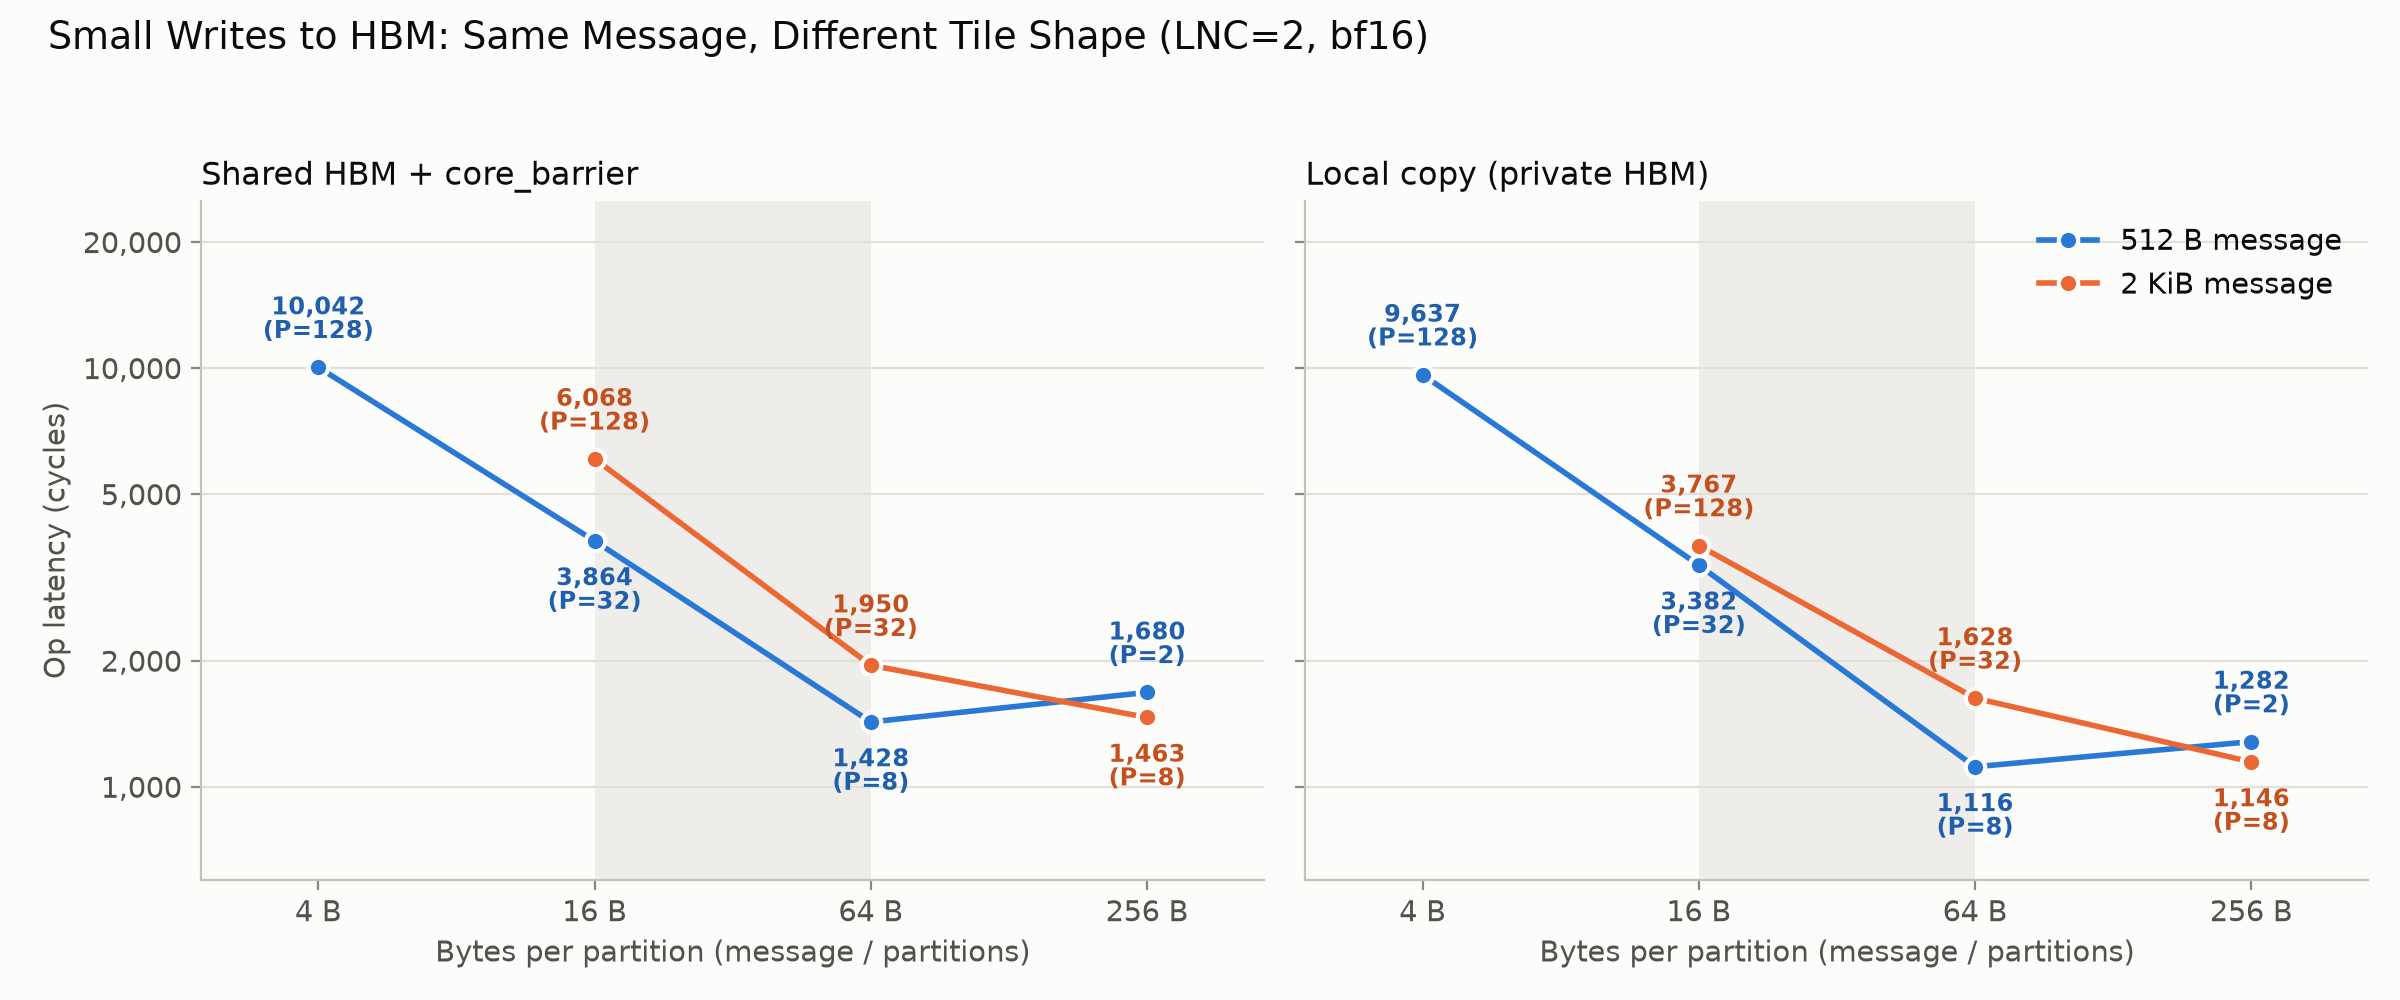
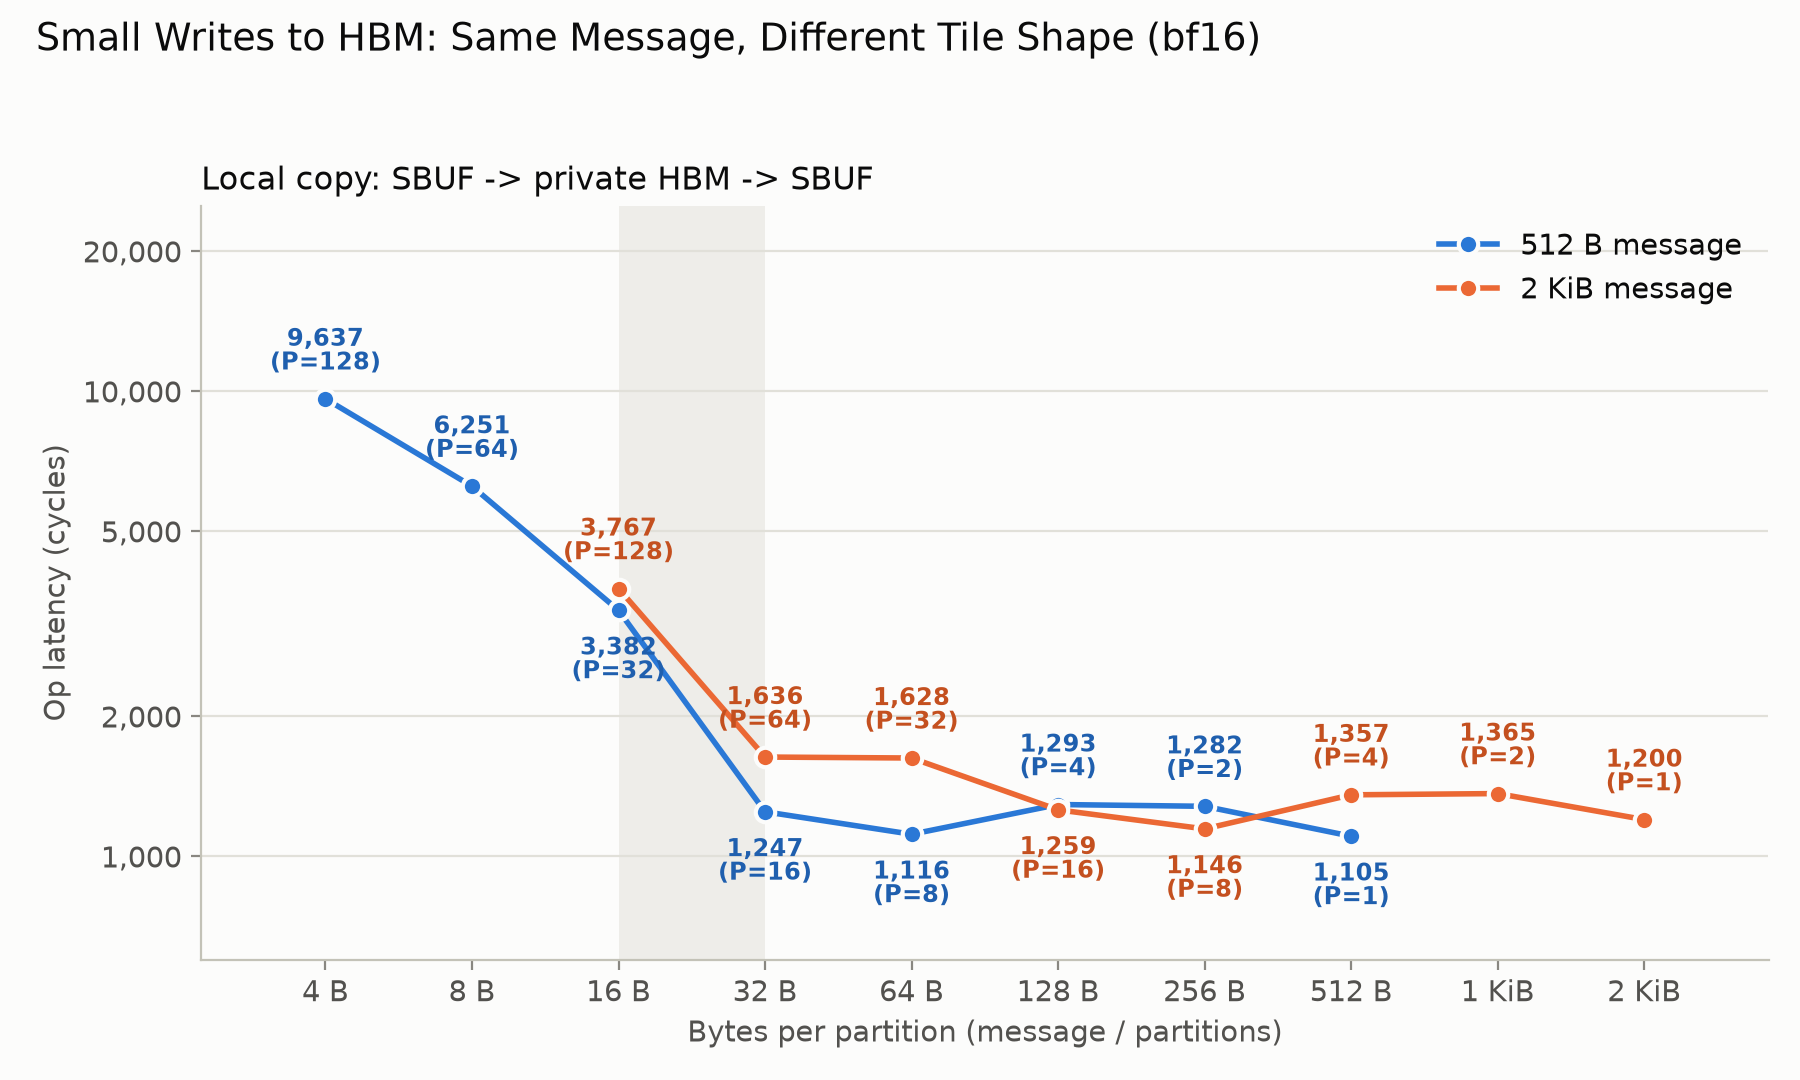
feat(ubenchX): pin down the HBM small-write effect in the intra-LNC benchmark
- fixed message (512 B, 2 KiB), partitions 128..1: local-copy latency follows bytes per partition, slow
  below 32 B (cost grows with partition rows per 32-byte unit), flat from 32 B
- 128 partitions, rows 24..128 B: fast only at multiples of 32 B (32/64/96/128/256 B ~1,660-1,690 cycles),
  1.5-2.2x slower at 24/40/48/56/72/80 B, consistent with a 32-byte write granularity on the HBM path
- plot_shape.py (local copy only, 4 B - 2 KiB per partition) and plot_fine128.py, with results

Claude-Session: https://claude.ai/code/session_01C1GQhTP9zGg6ZW9qDhft4A

diff --git a/ubenchX/trn3_lnc_comm/plot_shape.py b/ubenchX/trn3_lnc_comm/plot_shape.py
@@ -1,12 +1,12 @@
 """Plot op latency vs bytes per partition at a fixed message size (HBM small-write test; needs matplotlib).
 
-  python ubenchX/trn3_lnc_comm/plot_shape.py shape.csv out.png
+  python ubenchX/trn3_lnc_comm/plot_shape.py shape.csv [more.csv ...] out.png
 
 The same message (512 B or 2 KiB per rank) is sent as tiles of different shapes ([P, F] bf16, P = 128,
-32, 8, 2), so only the bytes each partition holds changes (F x 2 B). Left: shared HBM + core_barrier;
-right: the same copies into private HBM (local copy). Op latency in 1.2 GHz NeuronCore cycles, median over
+32, 8, 2; for local copy also 64, 16, 4, 1), so only the bytes each partition holds changes (F x 2 B). Local copy only
+(SBUF -> private HBM -> SBUF, no peer; shared HBM + core_barrier adds ~300 cycles throughout). Op latency in 1.2 GHz NeuronCore cycles, median over
 both physical cores and the profiled executions; the point label is the partition count. The shaded band
-is where the slowdown ends (between 16 and 64 B per partition).
+is where the slowdown ends (between 16 and 32 B per partition).
 """
 import sys
 
@@ -17,21 +17,22 @@ matplotlib.use("Agg")
 import matplotlib.pyplot as plt
 from matplotlib.ticker import FixedLocator, NullLocator
 
-csv, out = sys.argv[1:]
+*csvs, out = sys.argv[1:]
 SURFACE, INK, INK2, MUTED, GRID, AXIS = "#fcfcfb", "#0b0b0b", "#52514e", "#898781", "#e1e0d9", "#c3c2b7"
 SIZES = {512: ("512 B message", "#2a78d6", "#1f5fae"), 2048: ("2 KiB message", "#eb6834", "#c4501f")}
-PANELS = [("shm_barrier", "Shared HBM + core_barrier"), ("local_copy", "Local copy (private HBM)")]
+PANELS = [("local_copy", "Local copy: SBUF -> private HBM -> SBUF")]
 
-df = pd.read_csv(csv)
+df = pd.concat([pd.read_csv(c) for c in csvs], ignore_index=True)
 df["ppb"] = df.F * 2
 g = df.groupby(["kernel", "bytes", "ppb", "P"]).op_cycles.median().reset_index()
 xs = sorted(g.ppb.unique())
 
 plt.rcParams.update({"font.family": "DejaVu Sans", "font.size": 10.5})
-fig, axes = plt.subplots(1, 2, figsize=(12, 5), facecolor=SURFACE, sharey=True)
+fig, ax0 = plt.subplots(figsize=(9, 5.4), facecolor=SURFACE)
+axes = [ax0]
 for ax, (kernel, title) in zip(axes, PANELS):
     ax.set_facecolor(SURFACE)
-    ax.axvspan(16, 64, color=GRID, alpha=0.5, lw=0, zorder=0)
+    ax.axvspan(16, 32, color=GRID, alpha=0.5, lw=0, zorder=0)
     for b, (name, color, tcolor) in SIZES.items():
         s = g[(g.kernel == kernel) & (g.bytes == b)].sort_values("ppb")
         ax.plot(s.ppb, s.op_cycles, color=color, lw=2, marker="o", ms=7, markeredgecolor=SURFACE, markeredgewidth=1.5,
@@ -45,7 +46,7 @@ for ax, (kernel, title) in zip(axes, PANELS):
     ax.set_xscale("log", base=2)
     ax.xaxis.set_major_locator(FixedLocator(xs))
     ax.xaxis.set_minor_locator(NullLocator())
-    ax.set_xticklabels([f"{x} B" for x in xs])
+    ax.set_xticklabels([f"{x} B" if x < 1024 else f"{x // 1024} KiB" for x in xs])
     ax.set_xlim(xs[0] / 1.8, xs[-1] * 1.8)
     ax.set_yscale("log")
     yt = [500, 1000, 2000, 5000, 10000, 20000]
@@ -63,8 +64,8 @@ for ax, (kernel, title) in zip(axes, PANELS):
         ax.spines[s_].set_color(AXIS)
     ax.tick_params(colors=MUTED, labelcolor=INK2)
 axes[0].set_ylabel("Op latency (cycles)", color=INK2)
-axes[1].legend(loc="upper right", frameon=False, labelcolor=INK)
-fig.suptitle("Small Writes to HBM: Same Message, Different Tile Shape (LNC=2, bf16)", x=0.02, y=0.98, ha="left",
+axes[0].legend(loc="upper right", frameon=False, labelcolor=INK)
+fig.suptitle("Small Writes to HBM: Same Message, Different Tile Shape (bf16)", x=0.02, y=0.98, ha="left",
              color=INK, fontsize=13.5)
 fig.tight_layout(rect=(0, 0, 1, 0.94))
 fig.savefig(out, dpi=200, facecolor=SURFACE)

diff --git a/ubenchX/trn3_lnc_comm/plot_fine128.py b/ubenchX/trn3_lnc_comm/plot_fine128.py
@@ -1,0 +1,77 @@
+"""Plot local-copy op latency vs bytes per partition at 128 partitions (HBM write granularity; needs matplotlib).
+
+  python ubenchX/trn3_lnc_comm/plot_fine128.py a.csv [b.csv ...] out.png
+
+Local copy (SBUF -> private HBM -> SBUF, no peer) of a [128, F] bf16 tile, F x 2 bytes per partition from 4 to
+256 B, combining the fine 128-partition sweep with the earlier 128-partition points (CSVs without a P column
+are 128-partition runs). Op latency in 1.2 GHz NeuronCore cycles, median over both physical cores, the profiled
+executions and repeated runs. Filled markers: rows that are a multiple of 32 bytes; hollow: other sizes. The
+faint vertical lines mark multiples of 32 B; only the aligned points are labeled.
+"""
+import sys
+
+import matplotlib
+import pandas as pd
+
+matplotlib.use("Agg")
+import matplotlib.pyplot as plt
+from matplotlib.ticker import FixedLocator, NullLocator
+
+*csvs, out = sys.argv[1:]
+SURFACE, INK, INK2, MUTED, GRID, AXIS = "#fcfcfb", "#0b0b0b", "#52514e", "#898781", "#e1e0d9", "#c3c2b7"
+BLUE, BLUE_T = "#2a78d6", "#1f5fae"
+ORANGE, ORANGE_T = "#eb6834", "#c4501f"
+MAX_PPB = 256
+
+frames = []
+for c in csvs:
+    f = pd.read_csv(c)
+    if "P" not in f:
+        f["P"] = 128
+    frames.append(f)
+df = pd.concat(frames, ignore_index=True)
+df = df[(df.kernel == "local_copy") & (df.dtype == "bf16") & (df.P.fillna(128) == 128)]
+df["ppb"] = df.bytes // 128
+g = df[df.ppb <= MAX_PPB].groupby("ppb").op_cycles.median()
+
+plt.rcParams.update({"font.family": "DejaVu Sans", "font.size": 11})
+fig, ax = plt.subplots(figsize=(10, 5.4), facecolor=SURFACE)
+ax.set_facecolor(SURFACE)
+for x in range(32, MAX_PPB + 1, 32):
+    ax.axvline(x, color=GRID, lw=1, ls=(0, (2, 3)), zorder=1)
+ax.plot(g.index, g, color=MUTED, lw=1.5, zorder=2)
+aligned = g[g.index % 32 == 0]
+other = g[g.index % 32 != 0]
+ax.plot(aligned.index, aligned, ls="none", marker="o", ms=9, color=BLUE, markeredgecolor=SURFACE, markeredgewidth=1.5,
+        zorder=3, label="multiple of 32 B")
+ax.plot(other.index, other, ls="none", marker="o", ms=9, markerfacecolor=SURFACE, markeredgecolor=ORANGE,
+        markeredgewidth=2, zorder=3, label="other sizes")
+for n, v in aligned.items():  # label only the aligned (multiple of 32 B) points
+    ax.annotate(f"{v:,.0f}", (n, v), xytext=(0, -10), textcoords="offset points", ha="center", va="top",
+                color=BLUE_T, fontsize=9, fontweight="bold")
+
+ax.set_yscale("log")
+yt = [1000, 2000, 5000, 10000]
+ax.yaxis.set_major_locator(FixedLocator(yt))
+ax.yaxis.set_minor_locator(NullLocator())
+ax.set_yticklabels([f"{y:,}" for y in yt])
+ax.set_ylim(1000, 14000)
+xt = [0] + list(range(32, MAX_PPB + 1, 32))
+ax.xaxis.set_major_locator(FixedLocator(xt))
+ax.xaxis.set_minor_locator(NullLocator())
+ax.set_xlim(-6, MAX_PPB + 8)
+ax.set_xlabel("Bytes per partition (128 partitions; message = 128 x this)", color=INK2)
+ax.set_ylabel("Op latency (cycles)", color=INK2)
+ax.grid(axis="y", color=GRID, lw=0.8)
+ax.set_axisbelow(True)
+for s in ("top", "right"):
+    ax.spines[s].set_visible(False)
+for s in ("left", "bottom"):
+    ax.spines[s].set_color(AXIS)
+ax.tick_params(colors=MUTED, labelcolor=INK2)
+ax.legend(loc="upper right", frameon=False, labelcolor=INK)
+fig.suptitle("Local Copy through HBM at 128 Partitions: Fast Only at Multiples of 32 B per Partition (bf16)",
+             x=0.02, y=0.97, ha="left", color=INK, fontsize=13)
+fig.tight_layout(rect=(0, 0, 1, 0.95))
+fig.savefig(out, dpi=200, facecolor=SURFACE)
+print("wrote", out)
